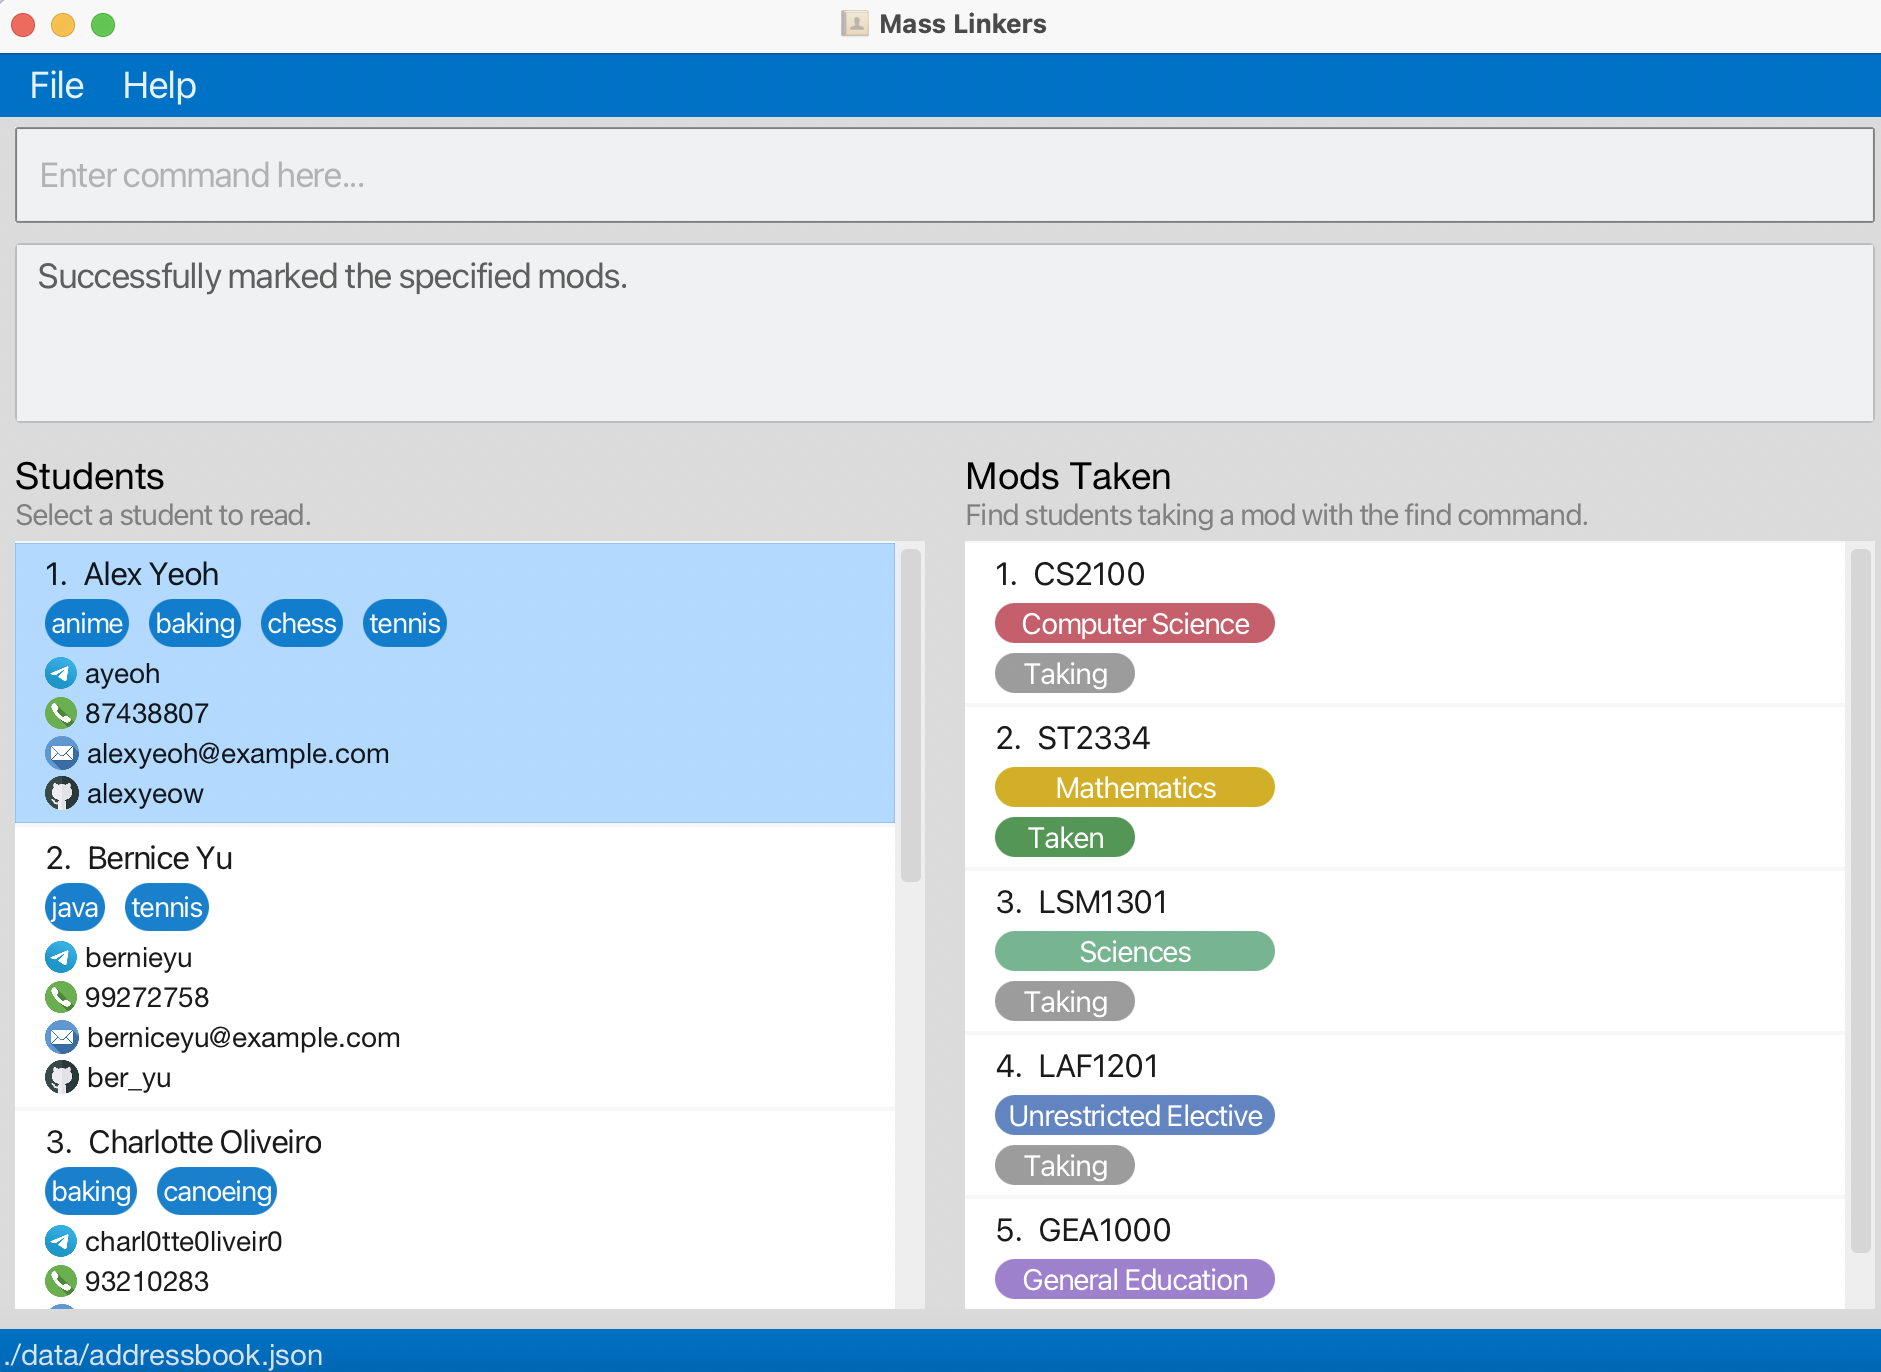
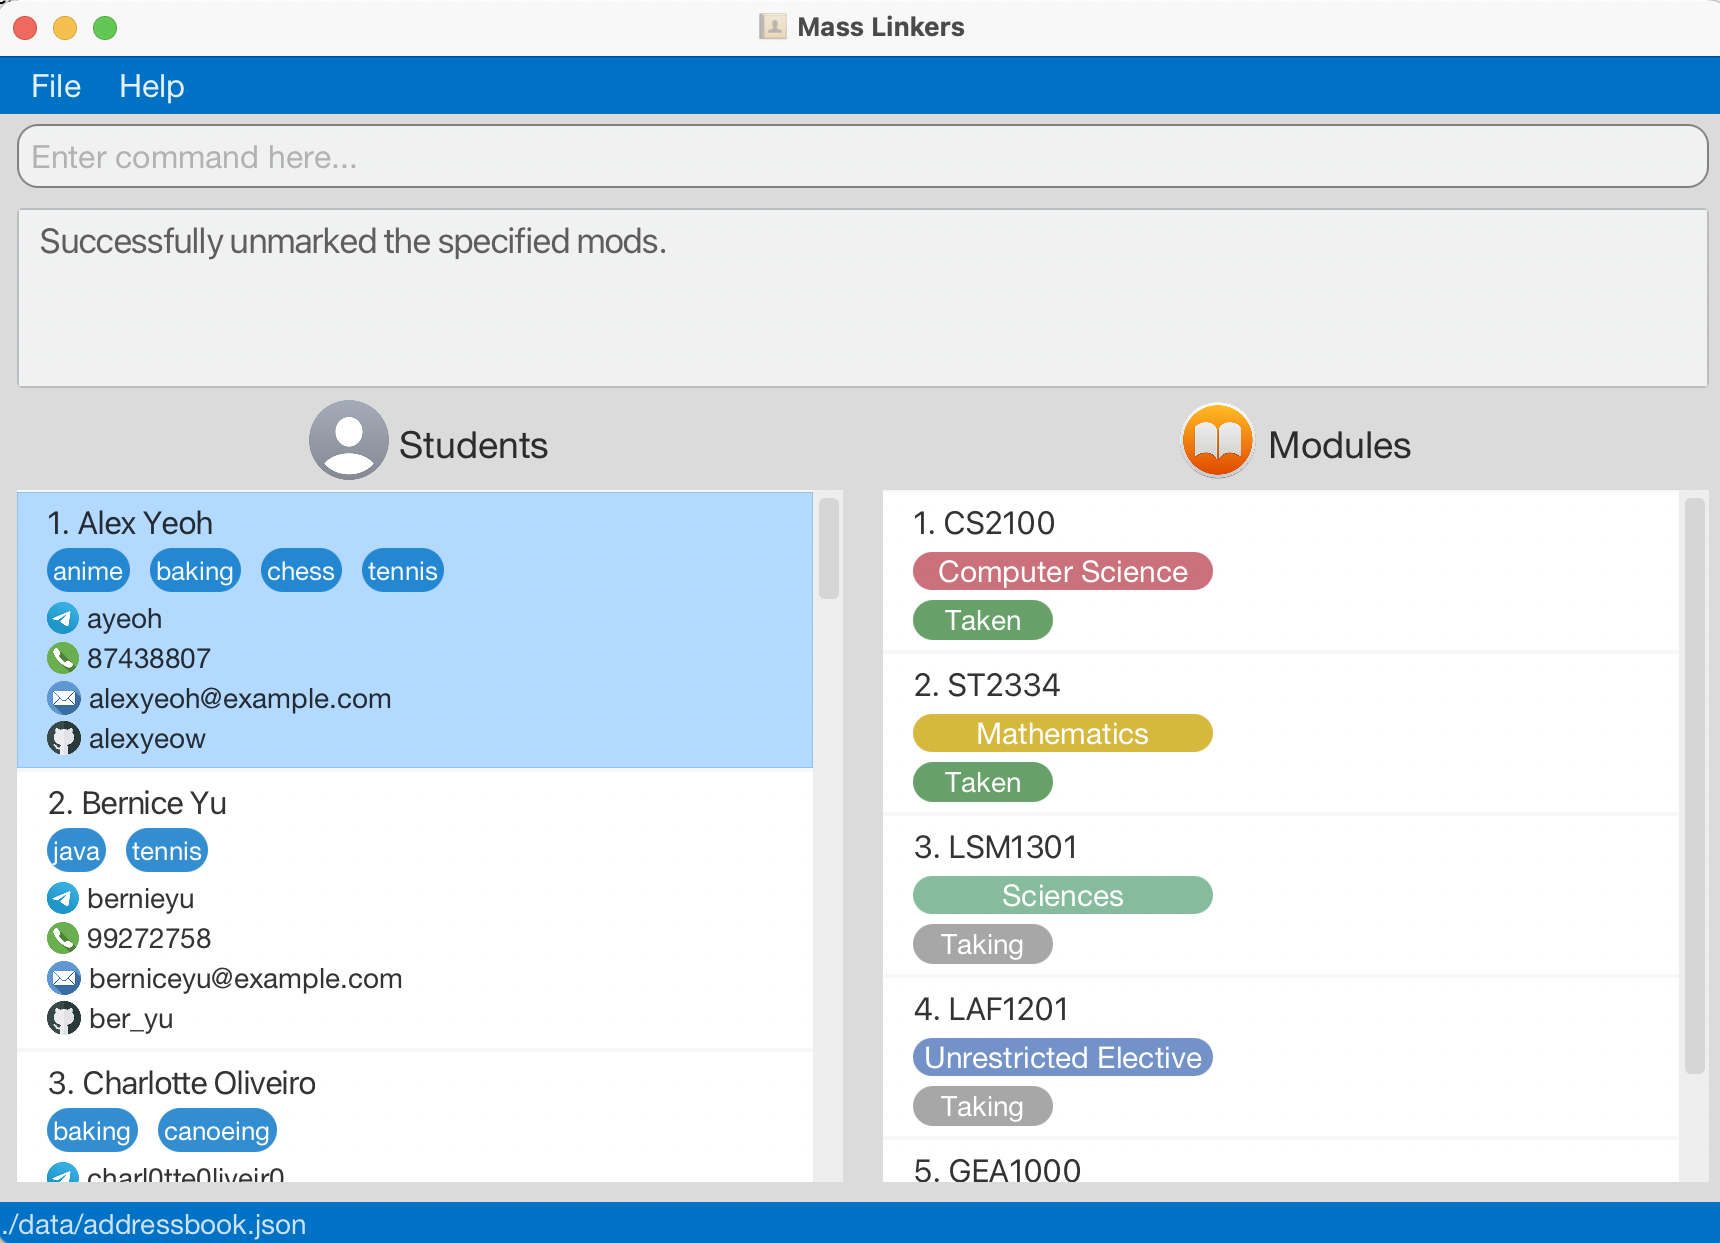
Fix mod unmark UI bug

Changed region(s): [[0.0, 0.3057, 0.986, 1.0], [0.0, 0.0, 1.0, 0.3057], [0.986, 0.856, 1.0, 0.9171]]

diff --git a/src/main/java/seedu/address/logic/commands/ModUnmarkCommand.java b/src/main/java/seedu/address/logic/commands/ModUnmarkCommand.java
@@ -66,7 +66,7 @@ public class ModUnmarkCommand extends ModCommand {
                 String.format(MESSAGE_SUCCESS, personToEdit),
                 false,
                 false,
-                true, false);
+                false, false);
     }
 
     @Override
